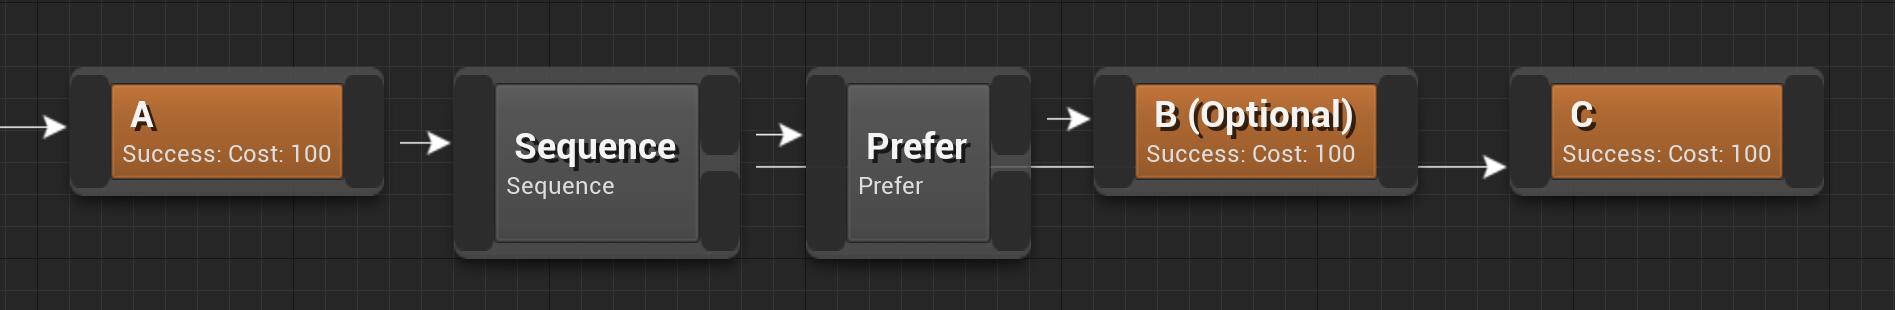
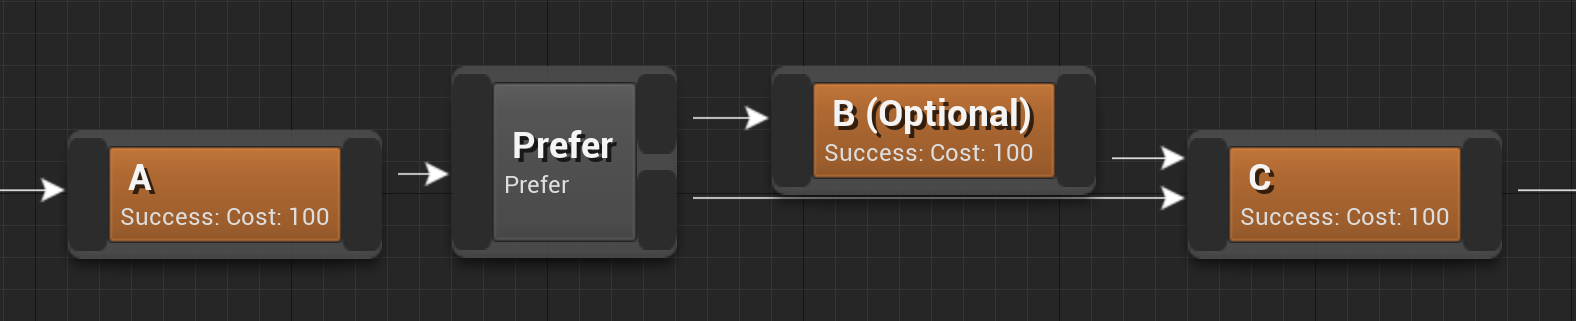
Fixed mistake in task.md, better example in prefer.md

diff --git a/task.md b/task.md
@@ -1,39 +1,39 @@
 # Task node reference
 
-The task node represents an atomic action an AIController can execute: move to point X, shoot firearm, etc. 
+A task node represents an atomic action an AIController can execute: move to point X, shoot firearm, etc. 
 It encapsulates the state and behavior of this action during plan execution, as well as its preconditions and effects during planning.
 
 > Custom tasks can be made by creating a subclass of `UHTNTask_BlueprintBase` (for Blueprints) or `UHTNTask` (for C++).
 
 ## Planning
 
-When the planner tries adding a task to a plan, the [`ReceiveCreatePlanSteps`](#receivecreateplansteps) function is called. Here task can check preconditions on and apply effects to a worldstate to which the task is given access via [a set of functions](manipulating-worldstates.md). 
+When the planner tries adding a task to a plan, the [`ReceiveCreatePlanSteps`](#receivecreateplansteps) function is called. Here the task can check preconditions on a worldstate and and apply effects to it. The worldstate can be accessed via [a set of functions](manipulating-worldstates.md). 
 
 ![CreatePlanSteps of GrabFirearm](_media/grab_firearm_create_plan_steps.png ':size=1200')
 
-If the given worldstate fits the preconditions, the task should apply its effects and call `SubmitPlanStep`. No action is needed if the preconditions don't fit. In this example the precondition is having a valid Firearm in a specific key of the worldstate, and the effect is putting that Firearm in another key of the worldstate.
+If the given worldstate fits the preconditions, the task should apply its effects and call `SubmitPlanStep`. No action is needed if the preconditions don't fit. In this example the precondition is "having a valid Firearm in a specific key of the worldstate", and the effect is "putting that Firearm in another key of the worldstate".
 
-> All effects applied to a worldstate during planning are applied to the blackboard when the task begins executing.
+!> All effects applied to a worldstate during planning are applied to the blackboard when the task successfully **finishes** executing.
 
-?> It is possible to submit multiple alternative plan steps by calling `SubmitPlanStep` multiple times. Each call replaces the accessed worldstate with a fresh copy without the applied effects. This allows producing multiple candidate plans from a single task, each with a step with a different set of effects.
+It is possible to submit multiple alternative plan steps by calling `SubmitPlanStep` multiple times. Each call replaces the accessed worldstate with a fresh copy without the applied effects. This allows producing multiple candidate plans from a single task, each with a step with a different set of effects.
 
 ## Execution
 
 Task execution is exactly the same as with Behavior Tree Tasks:
 
 The [`ReceiveExecute`](#receiveexecute) function is called when the function begins execution. 
-If `FinishExecute` isn't called until then, [`ReceiveTick`](#receivetick) is called per tick until `FinishExecute` is called.
+If `FinishExecute` isn't called immediately, [`ReceiveTick`](#receivetick) will be called per tick until `FinishExecute` is called.
 
 Task execution can be aborted at any time for various reasons. When that happens, [`ReceiveAbort`](#receiveabort)is called and the task continues being active (in a special "aborting" state) until `FinishAbort` is called.
 If `ReceiveAbort` is not implemented, the task will be aborted immediately.
 
-Regardless of how a task finished its execution, be it via a call to `FinishExecute` due to being aborted, [`ReceiveOnFinished`](#receiveonfinished) is called in any case when task execution ends.
+Regardless of how a task finished its execution (e.g., via a call to `FinishExecute` or due to being aborted), [`ReceiveOnFinished`](#receiveonfinished) is called in any case when task execution ends.
 
 ?> You can use the `IsTaskExecuting` and `IsTaskAborting` helper functions to verify the status of the task during execution.
 
 ## Limiting recursion
 
-The `MaxRecursionLimit` property of task nodes (and standalone nodes in general) allows to create recursion limits in recursive HTNs. This number limits the number of times a node may be included in a single plan. 0 means no limit.
+The `MaxRecursionLimit` property of task nodes (and standalone nodes in general) makes it possible to create recursion limits in recursive HTNs. This number limits the number of times a node may be included in a single plan. 0 means no limit.
 
 ## Overridable functions
 
@@ -50,11 +50,11 @@ This is necessary because values in the worldstate at this point in the plan mig
 
 ### ReceiveExecute
 
-Entry point for execution, task will stay active until `FinishExecute` is called.
+Entry point for execution. The task will stay active until `FinishExecute` is called, or the task is aborted.
 
 ### ReceiveTick
 
-Tick function, called as long as the task is execution.
+Tick function, called as long as the task is executing.
 
 ### ReceiveAbort
 

diff --git a/prefer.md b/prefer.md
@@ -3,10 +3,12 @@ The Prefer node is a structural node with two outputs. It plans one of its branc
 
 This node can be used to build a priority-based system of goals in the top-level HTN. On the image below each SubNetwork represents a way of achieving a particular goal. The planner will try to make a plan for the first goal, if that doesn't work, it will try the second one and so on.
 
-![Stuff](_media/prefer_goals.png ':size=800')
+![Prefer nodes being used to create a priority list of goals](_media/prefer_goals.png ':size=800')
 
 This node can also be used to make some parts of an HTN optional, so that the planner just skips them instead of failing completely. In the two examples below the task "Optional" will be added to the plan if possible, but otherwise skipped.
 
-![Stuff](_media/prefer_optional_simple.png ':size=800')
+![A Prefer node being used to make a task optional](_media/prefer_optional_simple.png ':size=800')
 
-![Stuff](_media/prefer_optional_complex.png ':size=800')
+![A Prefer node being used to make a task in a sequence of tasks optional](_media/prefer_optional_complex.png ':size=800')
+
+This node creates an [execution scope](decorator?id=execution-scope) for subnodes.
